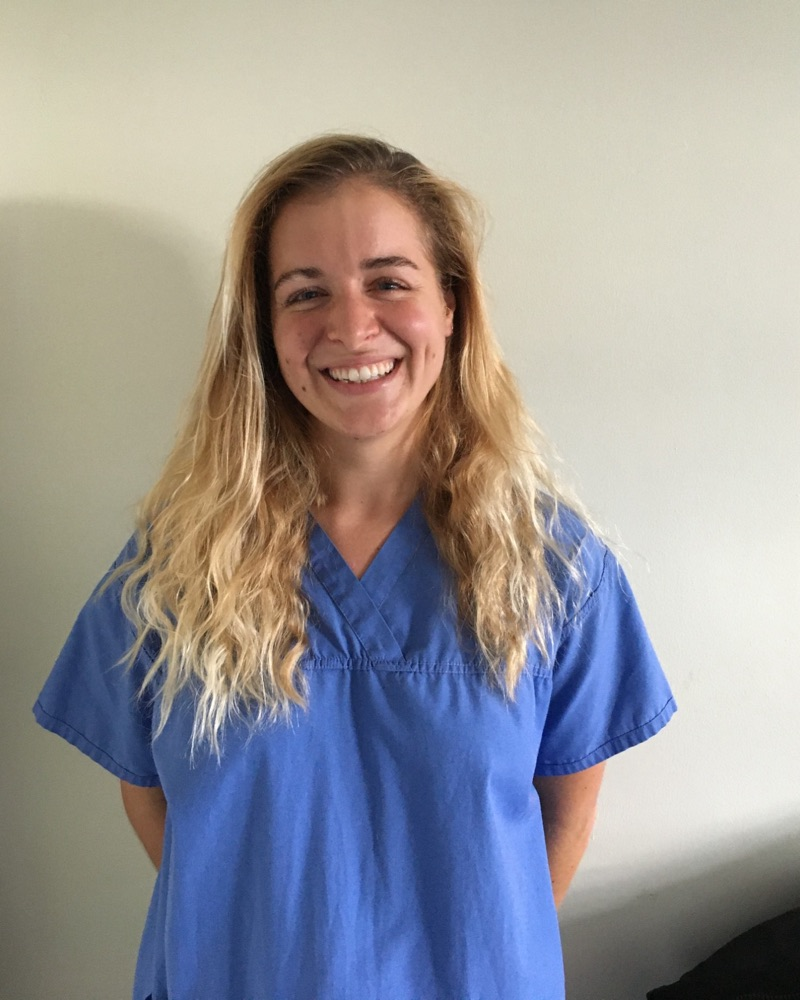
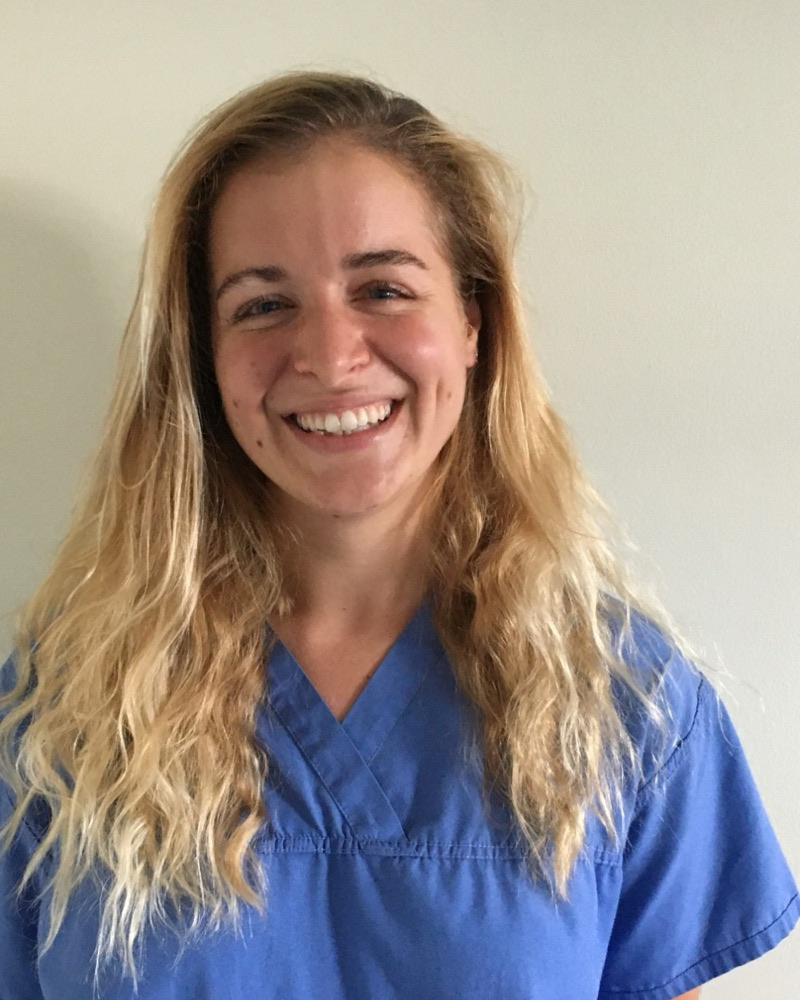
About photo: tighter head-and-shoulders crop, wider border

diff --git a/css/styles.css b/css/styles.css
@@ -324,7 +324,8 @@ a:hover { color: var(--brown-deep); }
   object-fit: cover;
 }
 
-/* Portrait photos keep the square corners of their slot. */
+/* Portrait photos keep the square corners of their slot, with a wider ring. */
+.img-slot--portrait.img-slot--photo { padding: clamp(18px, 7%, 32px); }
 .img-slot--portrait.img-slot--photo img { border-radius: 0; }
 
 /* Hero */

diff --git a/.claude/CLAUDE.md b/.claude/CLAUDE.md
@@ -259,7 +259,8 @@ in `css/styles.css` — use them, don't add raw hex values.
   `object-fit: cover`). Check new photos for EXIF/GPS before committing.
   The About portrait is `assets/images/aoife-about.jpg` (2026-11-06,
   800×1000, cropped 4:5, no EXIF/GPS; alt "Aoife O’Neill, smiling,
-  wearing blue scrubs"), square corners in its ring.
+  wearing blue scrubs"), head-and-shoulders crop, square corners, and a wider ring than the hero
+  (`clamp(18px, 7%, 32px)`, Aaron 2026-11-06).
 - **Grids**: 3- and 4-item grids use explicit breakpoints (not `auto-fit`)
   so an item is never orphaned on its own row.
 - For new visual directions beyond this system, ask first.

diff --git a/CHANGELOG.md b/CHANGELOG.md
@@ -10,8 +10,8 @@ it automatically (see `.github/workflows/release.yml`).
 
 ### Added
 
-- Aoife's photo in the About section (square-cornered portrait with a
-  light-mustard ring), replacing the placeholder.
+- Aoife's photo in the About section (head-and-shoulders crop, square
+  corners, wide light-mustard border), replacing the placeholder.
 - LinkedIn icon link in the footer, to Aoife's LinkedIn profile (letters
   centred in the square so it doesn't look tight on the right).
 - Browser tab icon: the pear from the header on a mustard square (SVG,
